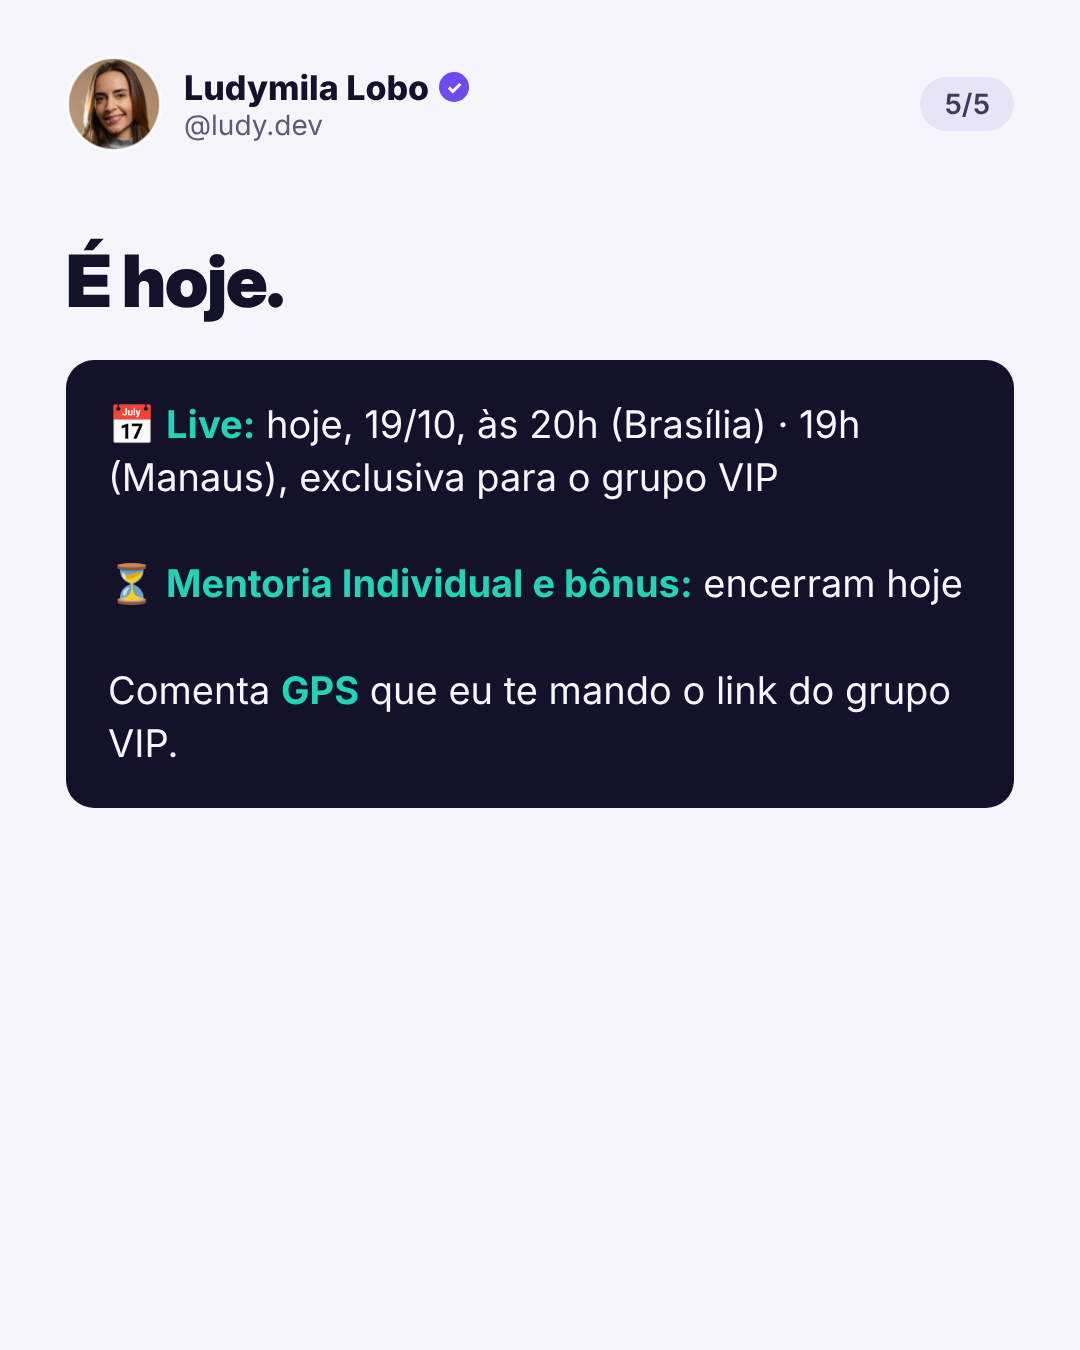
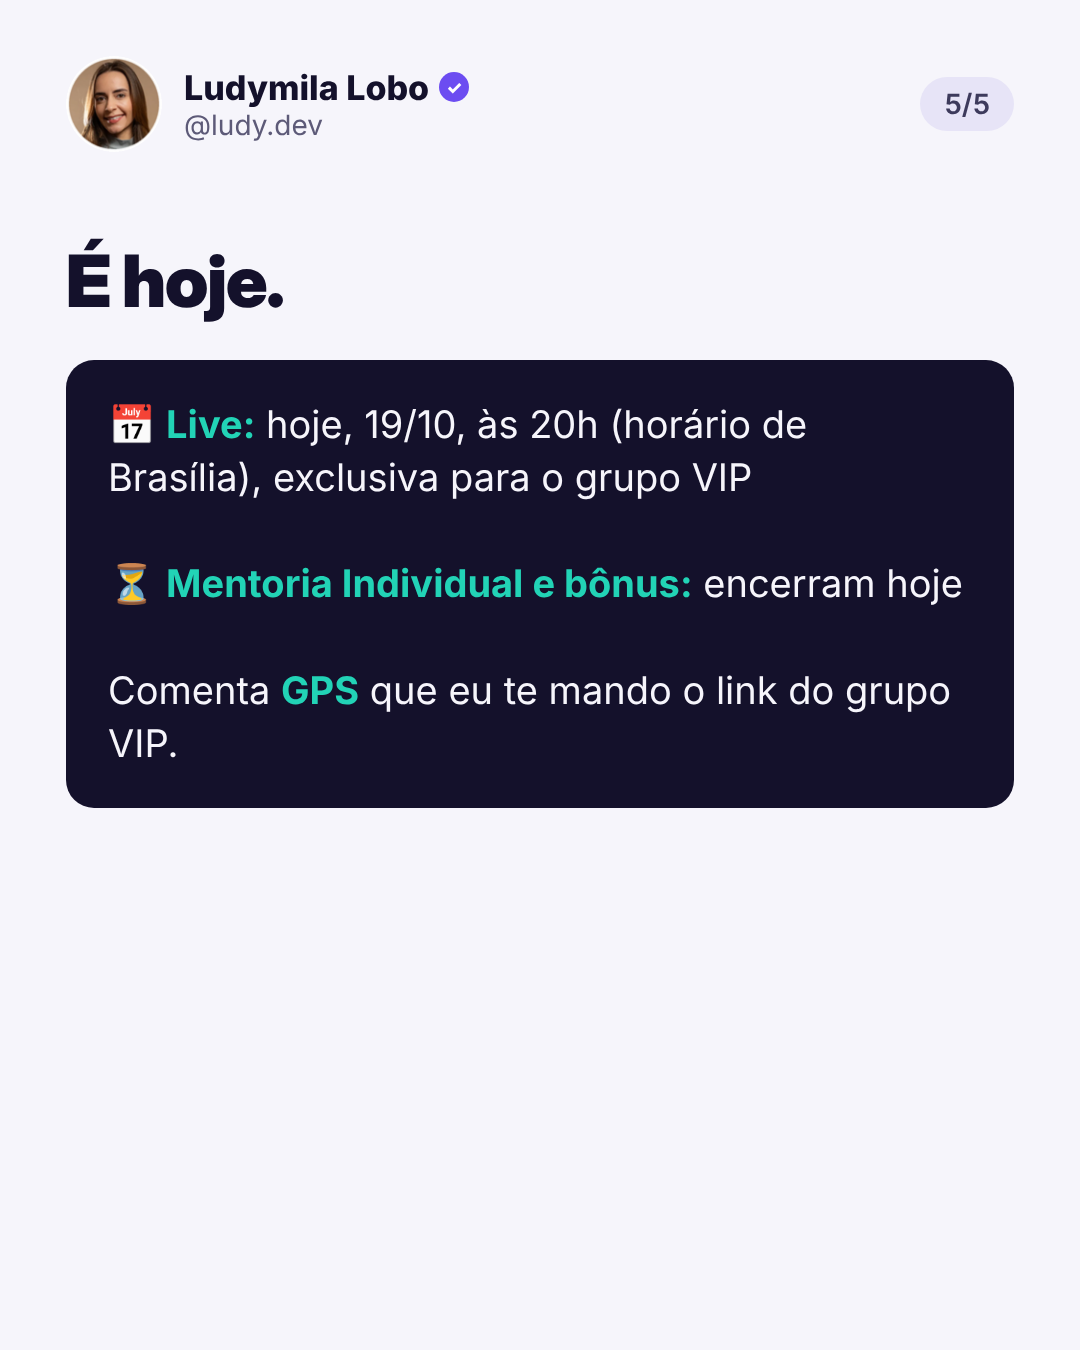
Horários só em Brasília nos posts de 19/10
Claude-Session: https://claude.ai/code/session_01PAmMNyTervBqrWDZUP7Uz7

Changed region(s): [[0.0917, 0.28, 0.7944, 0.3733]]

diff --git a/_ferramentas/mentoria_1910.py b/_ferramentas/mentoria_1910.py
@@ -19,13 +19,13 @@ p2 = [
  page_b('<span class="tag">G · GUIA</span><h2>Antes de estudar, escolher o destino</h2><p>Tribunais, controle, bancos ou área fiscal? Cada caminho cobra coisas diferentes. Na live eu mostro como escolher o seu <span class="hl">a partir do edital</span>, e não do achismo.</p>', 2, T2),
  page_b('<span class="tag">P · PLANEJAMENTO</span><h2>Um cronograma que cabe na sua rotina</h2><p>Peso de cada matéria, horas que você realmente tem e revisões programadas. Vou montar um <span class="hl">exemplo ao vivo</span>.</p>', 3, T2),
  page_b('<span class="tag">S · SUCESSO</span><h2>Medir para não estudar no escuro</h2><p>Percentual de acertos por assunto, metas semanais e o momento certo de <span class="hl">recalcular a rota</span>.</p>', 4, T2),
- page_b('<h2>É hoje.</h2><div class="box">📅 <b>Live:</b> hoje, 19/10, às 20h (Brasília) · 19h (Manaus), exclusiva para o grupo VIP<br><br>⏳ <b>Mentoria Individual e bônus:</b> encerram hoje<br><br>Comenta <b>GPS</b> que eu te mando o link do grupo VIP.</div>', 5, T2),
+ page_b('<h2>É hoje.</h2><div class="box">📅 <b>Live:</b> hoje, 19/10, às 20h (horário de Brasília), exclusiva para o grupo VIP<br><br>⏳ <b>Mentoria Individual e bônus:</b> encerram hoje<br><br>Comenta <b>GPS</b> que eu te mando o link do grupo VIP.</div>', 5, T2),
 ]
 
 # POST 3 — 17h · imagem única · estilo A (foto câmera): a live é hoje
 p3 = [page_a(badge() + """
 <h1>A live é <span class="c">hoje</span>, às <span class="v">20h</span> de Brasília</h1>
-<div class="sub" style="margin-top:20px">19h em Manaus · exclusiva para o grupo VIP</div>
+<div class="sub" style="margin-top:20px">Exclusiva para o grupo VIP</div>
 <div class="card"><div class="t">Como funciona a Mentoria Individual + como eu monto o cronograma com o método GPS</div>
 <div class="d">E hoje é o último dia das inscrições e do bônus.</div></div>
 <div class="sub">Comenta <b style="color:#22D3B6">GPS</b> e entra no grupo agora para receber o link.</div>
